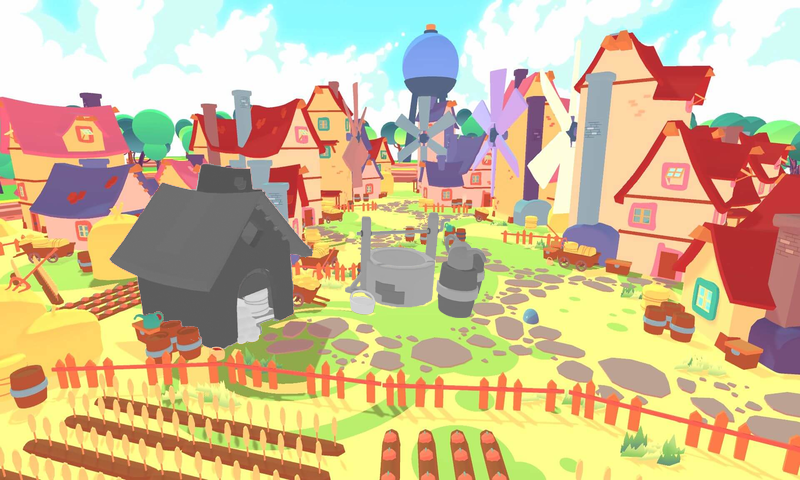
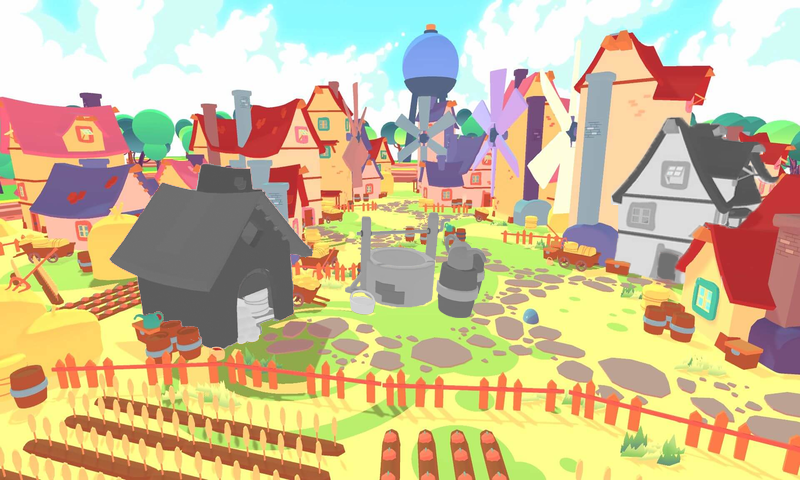
Ziekenhuis toegevoegd

Changed region(s): [[0.75, 0.25, 0.9688, 0.5938]]

diff --git a/model/scene.py b/model/scene.py
@@ -1,4 +1,4 @@
-includeIO = True
+includeIO = False
 
 import tkinter as tk
 import os
@@ -85,12 +85,14 @@ class TroubleVillage(tk.Tk):
                 self.dorp.addWater(300)
 
         # subtract a number between 0 and 5 from the population count per turn.
-        self.dorp.lowerPopulation(random.randint(0,5))
+        self.dorp.lowerPopulation(random.randint(0, 14))
 
         # if there's an event active we apply a double popu lation penalty.
         if self.dorp.getState() != 0:
-            self.dorp.lowerPopulation(random.randint(5,10))
+            self.dorp.lowerPopulation(random.randint(5, 10))
 
+        if self.dorp.hospital:
+            self.dorp.addPopulation(random.randint(0, 8))
 
         self.dorp.setPoints()
         self.dorp.nextTurn()
@@ -274,6 +276,11 @@ class VillagePage(tk.Frame):
         canvas.bgimg = bgimg
         canvas.create_image(0, 0, image=canvas.bgimg, anchor="nw")
 
+        if (dorp.hospital):
+            icon_stockpile = tk.PhotoImage(file='img/hospital.png')
+            canvas.icon_stockpile = icon_stockpile
+            canvas.create_image(610, 115, image=canvas.icon_stockpile, anchor="nw")
+
         canvas.create_rectangle(0, 40, 800, 80, fill="white")
         canvas.create_rectangle(0, 480, 50, 430, fill="white")
         canvas.create_rectangle(600, 480, 800, 240, fill="white")
@@ -324,6 +331,7 @@ class VillagePage(tk.Frame):
             icon_stockpile = tk.PhotoImage(file='img/stockpile.png')
             canvas.icon_stockpile = icon_stockpile
             canvas.create_image(110, 164, image=canvas.icon_stockpile, anchor="nw")
+
 
         if (dorp.ship1):
             icon_ship1 = tk.PhotoImage(file='img/ship1.png')

diff --git a/model/village.py b/model/village.py
@@ -12,6 +12,7 @@ class Village:
         self.points = 0
         self.well = False
         self.stockpile = False
+        self.hospital = False
         self.ship1 = False
         self.ship2 = False
         self.ship3 = False
@@ -55,6 +56,14 @@ class Village:
     def buildStockpile(self):
         if self.water - 500 >= 0:
             self.water -= 500
+            self.stockpile = True
+            return True
+        else:
+            return False
+
+    def buildHospital(self):
+        if self.wood - 2000 >= 0:
+            self.water -= 2000
             self.stockpile = True
             return True
         else:

diff --git a/driver/nfcreader.py b/driver/nfcreader.py
@@ -63,6 +63,9 @@ class NFC(threading.Thread):
         elif card == "18824821821771":  # stockpilebuilding
             self.dorp.buildStockpile()
             self.troublevillage.update()
+        elif card == "":  # hospitalbuilding
+            self.dorp.buildHospital()
+            self.troublevillage.update()
 
         elif card == "302482204911":  # ship part1 building
             self.dorp.buildShip1()
